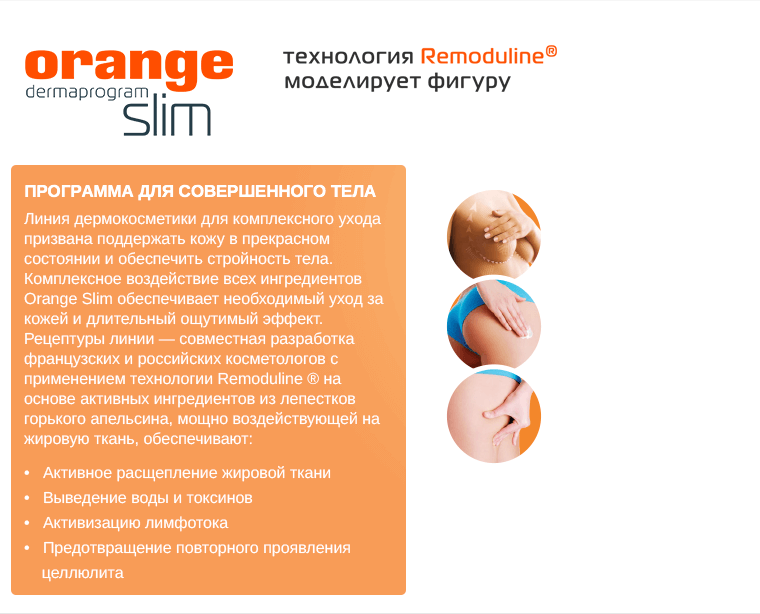
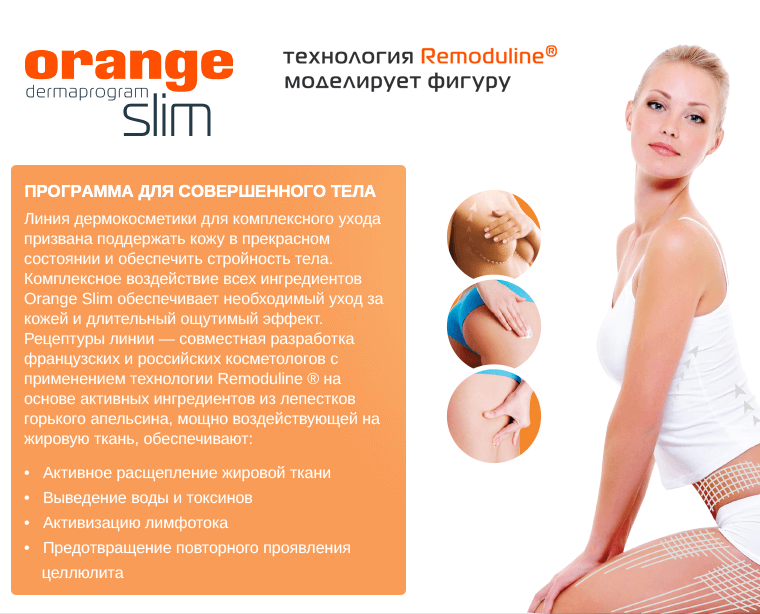
up

Changed region(s): [[0.6961, 0.0619, 1.0, 1.0], [0.9382, 0.6189, 0.9987, 0.6808], [0.0605, 0.1238, 0.1513, 0.1547]]

diff --git a/css/orange-slim.css b/css/orange-slim.css
@@ -1,0 +1,290 @@
+.banner_orange-slim .banner__image_1 {
+    width: 333px;
+    height: 578px;
+    background-image: url(../i/orange-slim__girl.png);
+}
+
+.banner_orange-slim .banner__image_2 {
+    width: 129px;
+    height: 350px;
+    background-image: url(../i/orange-slim__body.png);
+}
+
+.banner_orange-slim .banner__image_3 {
+    width: 274px;
+    height: 47px;
+    background-image: url(../i/orange-slim__features.png);
+}
+
+.banner_orange-slim .banner__logo {
+    position: absolute;
+    z-index: 1;
+    width: 208px;
+    height: 86px;
+    background: url(../i/orange-slim__logo.png) 0 0 no-repeat;
+}
+
+.banner_orange-slim .banner__description {
+    border-radius: 5px;
+    background: #f89c57;
+    color: #ffffff;
+    font-size: 16px;
+    line-height: 20px;
+}
+
+.banner_orange-slim .banner__header {
+    font-weight: bold;
+    font-size: 22px;
+    line-height: normal;
+}
+
+.banner_orange-slim .banner__logo,
+.banner_orange-slim .banner__description {
+    transition: all .3s ease-out;
+}
+
+@media all and (max-width: 759px) {
+    .banner_orange-slim .banner__inner {
+        padding: 97px 0 248px;
+    }
+
+    .banner_orange-slim .banner__image_1 {
+        right: -206px;
+        bottom: -333px;
+        background-size: 173px;
+    }
+
+    .banner_orange-slim .banner__image_2 {
+        bottom: -176px;
+        left: 153px;
+        background-size: 59px;
+    }
+
+    .banner_orange-slim .banner__image_3 {
+        bottom: 187px;
+        left: 11px;
+        background-size: 239px;
+    }
+
+    .banner_orange-slim .banner__logo {
+        top: 14px;
+        left: 87px;
+        background-size: 165px;
+    }
+
+    .banner_orange-slim .banner__header {
+        margin-bottom: 8px;
+        padding-right: 50px;
+        font-size: 17px;
+        line-height: 24px;
+    }
+
+    .banner_orange-slim .banner__description {
+        padding: 5px 12px 9px;
+        width: 316px;
+    }
+
+    .banner_orange-slim .banner__list {
+        margin-top: 11px;
+    }
+
+    .banner_orange-slim .banner__list-item {
+        line-height: 25px;
+    }
+}
+
+@media all and (min-width: 760px) and (max-width: 999px) {
+    .banner_orange-slim .banner__inner {
+        padding: 165px 0 19px;
+    }
+
+    .banner_orange-slim .banner__image_1 {
+        top: 44px;
+        right: -111px;
+    }
+
+    .banner_orange-slim .banner__image_2 {
+        top: 186px;
+        right: 178px;
+        background-size: 104px;
+    }
+
+    .banner_orange-slim .banner__image_3 {
+        top: 45px;
+        left: 271px;
+    }
+
+    .banner_orange-slim .banner__logo {
+        top: 50px;
+        left: 13px;
+    }
+
+    .banner_orange-slim .banner__header {
+        margin-bottom: 8px;
+        font-size: 17px;
+    }
+
+    .banner_orange-slim .banner__description {
+        padding: 16px 14px 10px;
+        width: 367px;
+    }
+
+    .banner_orange-slim .banner__list {
+        margin-top: 11px;
+    }
+
+    .banner_orange-slim .banner__list-item {
+        line-height: 25px;
+    }
+}
+
+@media all and (min-width: 1000px) and (max-width: 1279px) {
+    .banner_orange-slim .banner__inner {
+        padding: 158px 0 7px;
+    }
+
+    .banner_orange-slim .banner__image_1 {
+        top: -7px;
+        right: -76px;
+    }
+
+    .banner_orange-slim .banner__image_2 {
+        top: 115px;
+        right: 206px;
+    }
+
+    .banner_orange-slim .banner__image_3 {
+        top: 36px;
+        left: 527px;
+    }
+
+    .banner_orange-slim .banner__logo {
+        top: 52px;
+        left: 15px;
+    }
+
+    .banner_orange-slim .banner__header {
+        position: absolute;
+        top: 86px;
+        left: 140px;
+    }
+
+    .banner_orange-slim .banner__description {
+        padding: 8px 19px 4px 15px;
+        width: 414px;
+    }
+
+    .banner_orange-slim .banner__header {
+        position: absolute;
+        top: 38px;
+        left: 295px;
+        width: 200px;
+        color: #f89c57;
+        font-size: 17px;
+        line-height: 24px;
+    }
+
+    .banner_orange-slim .banner__list {
+        margin-top: 11px;
+    }
+
+    .banner_orange-slim .banner__list-item {
+        line-height: 25px;
+    }
+}
+
+@media all and (min-width: 1280px) and (max-width: 1919px) {
+    .banner_orange-slim .banner__inner {
+        padding: 156px 0 5px;
+    }
+
+    .banner_orange-slim .banner__image_1 {
+        top: -6px;
+        right: -21px;
+    }
+
+    .banner_orange-slim .banner__image_2 {
+        top: 116px;
+        right: 365px;
+    }
+
+    .banner_orange-slim .banner__image_3 {
+        top: 36px;
+        left: 586px;
+    }
+
+    .banner_orange-slim .banner__logo {
+        top: 50px;
+        left: 14px;
+    }
+
+    .banner_orange-slim .banner__header {
+        position: absolute;
+        top: 87px;
+        left: 140px;
+    }
+
+    .banner_orange-slim .banner__description {
+        padding: 8px 23px 7px 13px;
+        width: 412px;
+    }
+
+    .banner_orange-slim .banner__header {
+        position: absolute;
+        top: 46px;
+        left: 283px;
+        width: 260px;
+        color: #f89c57;
+    }
+
+    .banner_orange-slim .banner__list {
+        margin-top: 11px;
+    }
+
+    .banner_orange-slim .banner__list-item {
+        line-height: 25px;
+    }
+}
+
+@media all and (min-width: 1920px) {
+    .banner_orange-slim .banner__inner {
+        padding: 156px 0 28px;
+    }
+
+    .banner_orange-slim .banner__image_1 {
+        top: -7px;
+        right: 5px;
+    }
+
+    .banner_orange-slim .banner__image_2 {
+        top: 118px;
+        right: 438px;
+    }
+
+    .banner_orange-slim .banner__image_3 {
+        top: 38px;
+        left: 811px;
+    }
+
+    .banner_orange-slim .banner__logo {
+        top: 51px;
+        left: 19px;
+    }
+
+    .banner_orange-slim .banner__header {
+        margin-bottom: 12px;
+    }
+
+    .banner_orange-slim .banner__description {
+        padding: 10px 18px 17px;
+        width: 599px;
+    }
+
+    .banner_orange-slim .banner__list {
+        margin-top: 19px;
+    }
+
+    .banner_orange-slim .banner__list-item {
+        line-height: 25px;
+    }
+}

diff --git a/orange-slim.html b/orange-slim.html
@@ -1,0 +1,42 @@
+<!DOCTYPE html>
+<html>
+<head>
+    <meta charset="UTF-8">
+    <title>orange-slim</title>
+    <link rel="stylesheet" type="text/css" href="css/styles.css">
+    <link rel="stylesheet" type="text/css" href="css/orange-slim.css">
+    <link rel="stylesheet" type="text/css" href="css/test.css">
+</head>
+<body>
+    <input type="checkbox" checked/>Background
+
+    <div class="banner banner_orange-slim">
+        <div class="banner__inner">
+            <div class="banner__image banner__image_1"></div>
+            <div class="banner__image banner__image_2"></div>
+            <div class="banner__image banner__image_3"></div>
+            <div class="banner__logo"></div>
+            <div class="banner__description">
+                <div class="banner__header">ПРОГРАММА ДЛЯ&nbsp;СОВЕРШЕННОГО ТЕЛА</div>
+                <div class="banner__p">Линия дермокосметики для комплексного ухода призвана поддержать кожу в
+                    прекрасном состоянии и обеспечить стройность тела. Комплексное воздействие всех ингредиентов
+                    Orange Slim обеспечивает необходимый уход за кожей и длительный ощутимый эффект. Рецептуры линии
+                    – совместная разработка французских и российских косметологов с применением технологии
+                    Remoduline&nbsp;® на основе активных ингредиентов из лепестков горького апельсина, мощно
+                    воздействующей на жировую ткань, обеспечивают:</div>
+                <div class="banner__list">
+                    <div class="banner__list-item">Активное расщепление жировой ткани</div>
+                    <div class="banner__list-item">Выведение воды и токсинов</div>
+                    <div class="banner__list-item">Активизацию лимфотока</div>
+                    <div class="banner__list-item">Предотвращение повторного проявления целлюлита</div>
+                </div>
+            </div>
+        </div>
+    </div>
+    <iframe src="#" frameborder="0" width="1920" height="550"></iframe>
+    <iframe src="#" frameborder="0" width="1280" height="550"></iframe>
+    <iframe src="#" frameborder="0" width="1000" height="550"></iframe>
+    <iframe src="#" frameborder="0" width="760" height="650"></iframe>
+    <iframe src="#" frameborder="0" width="360" height="900"></iframe>
+</body>
+</html>
